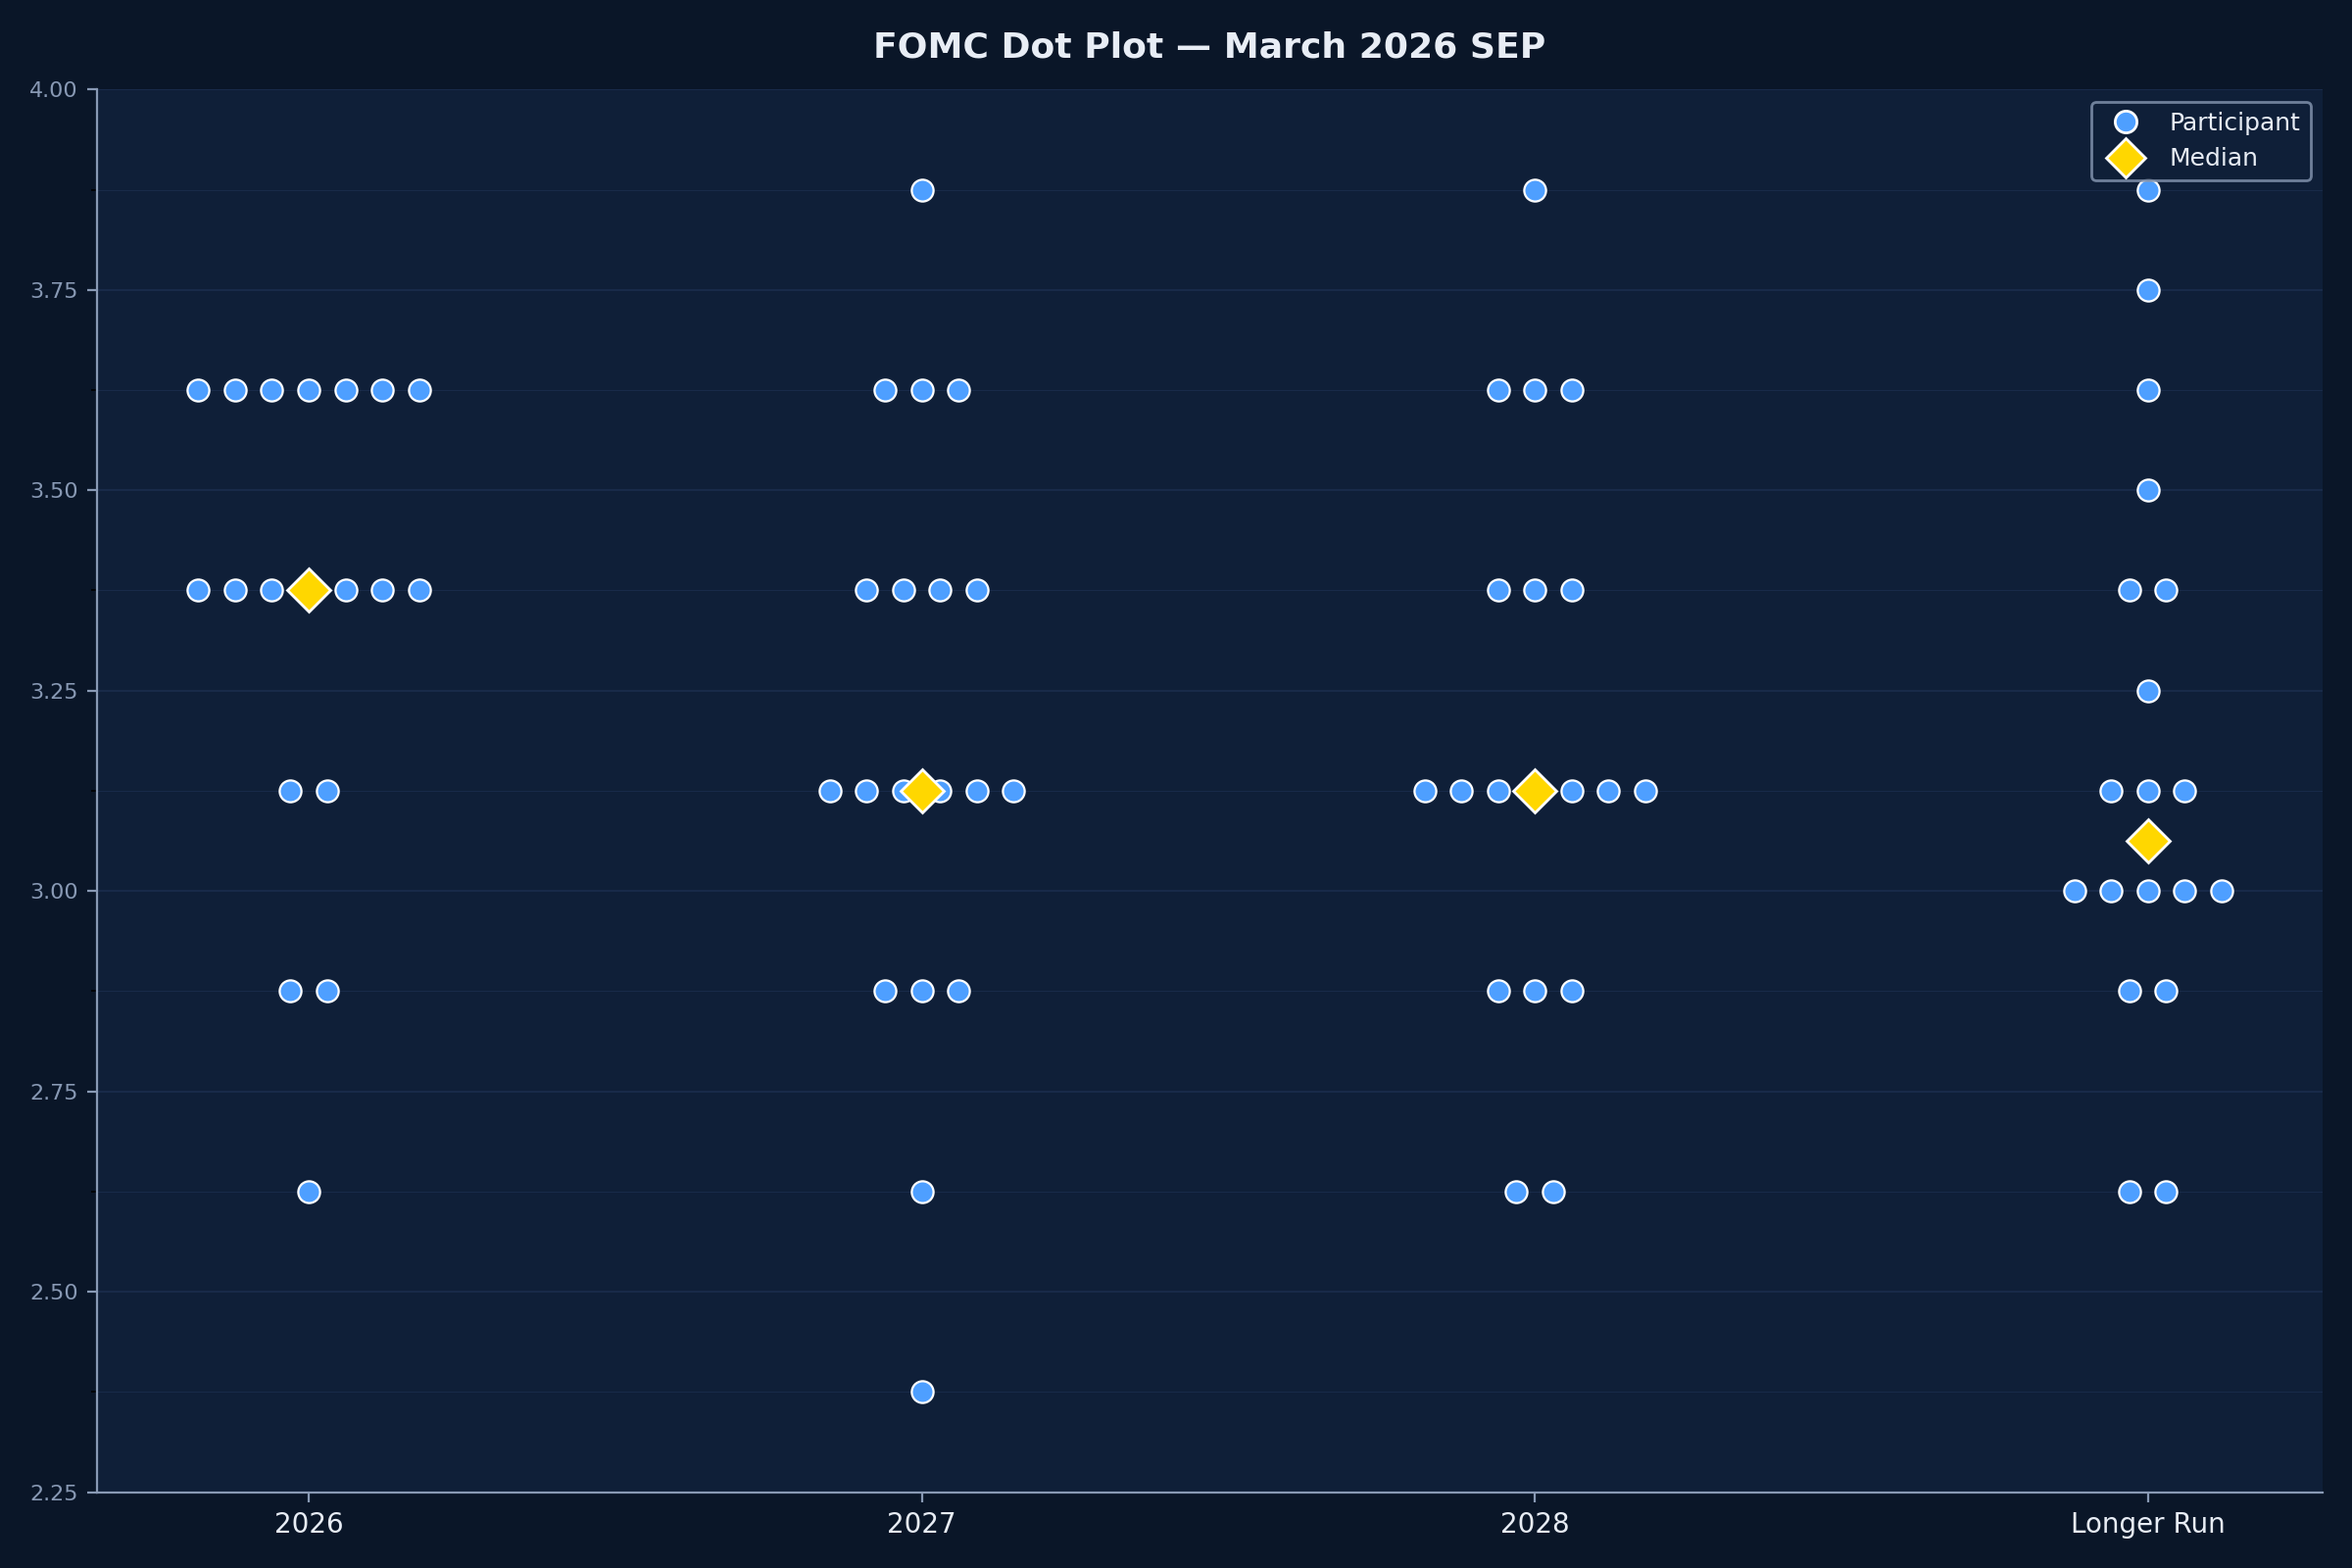
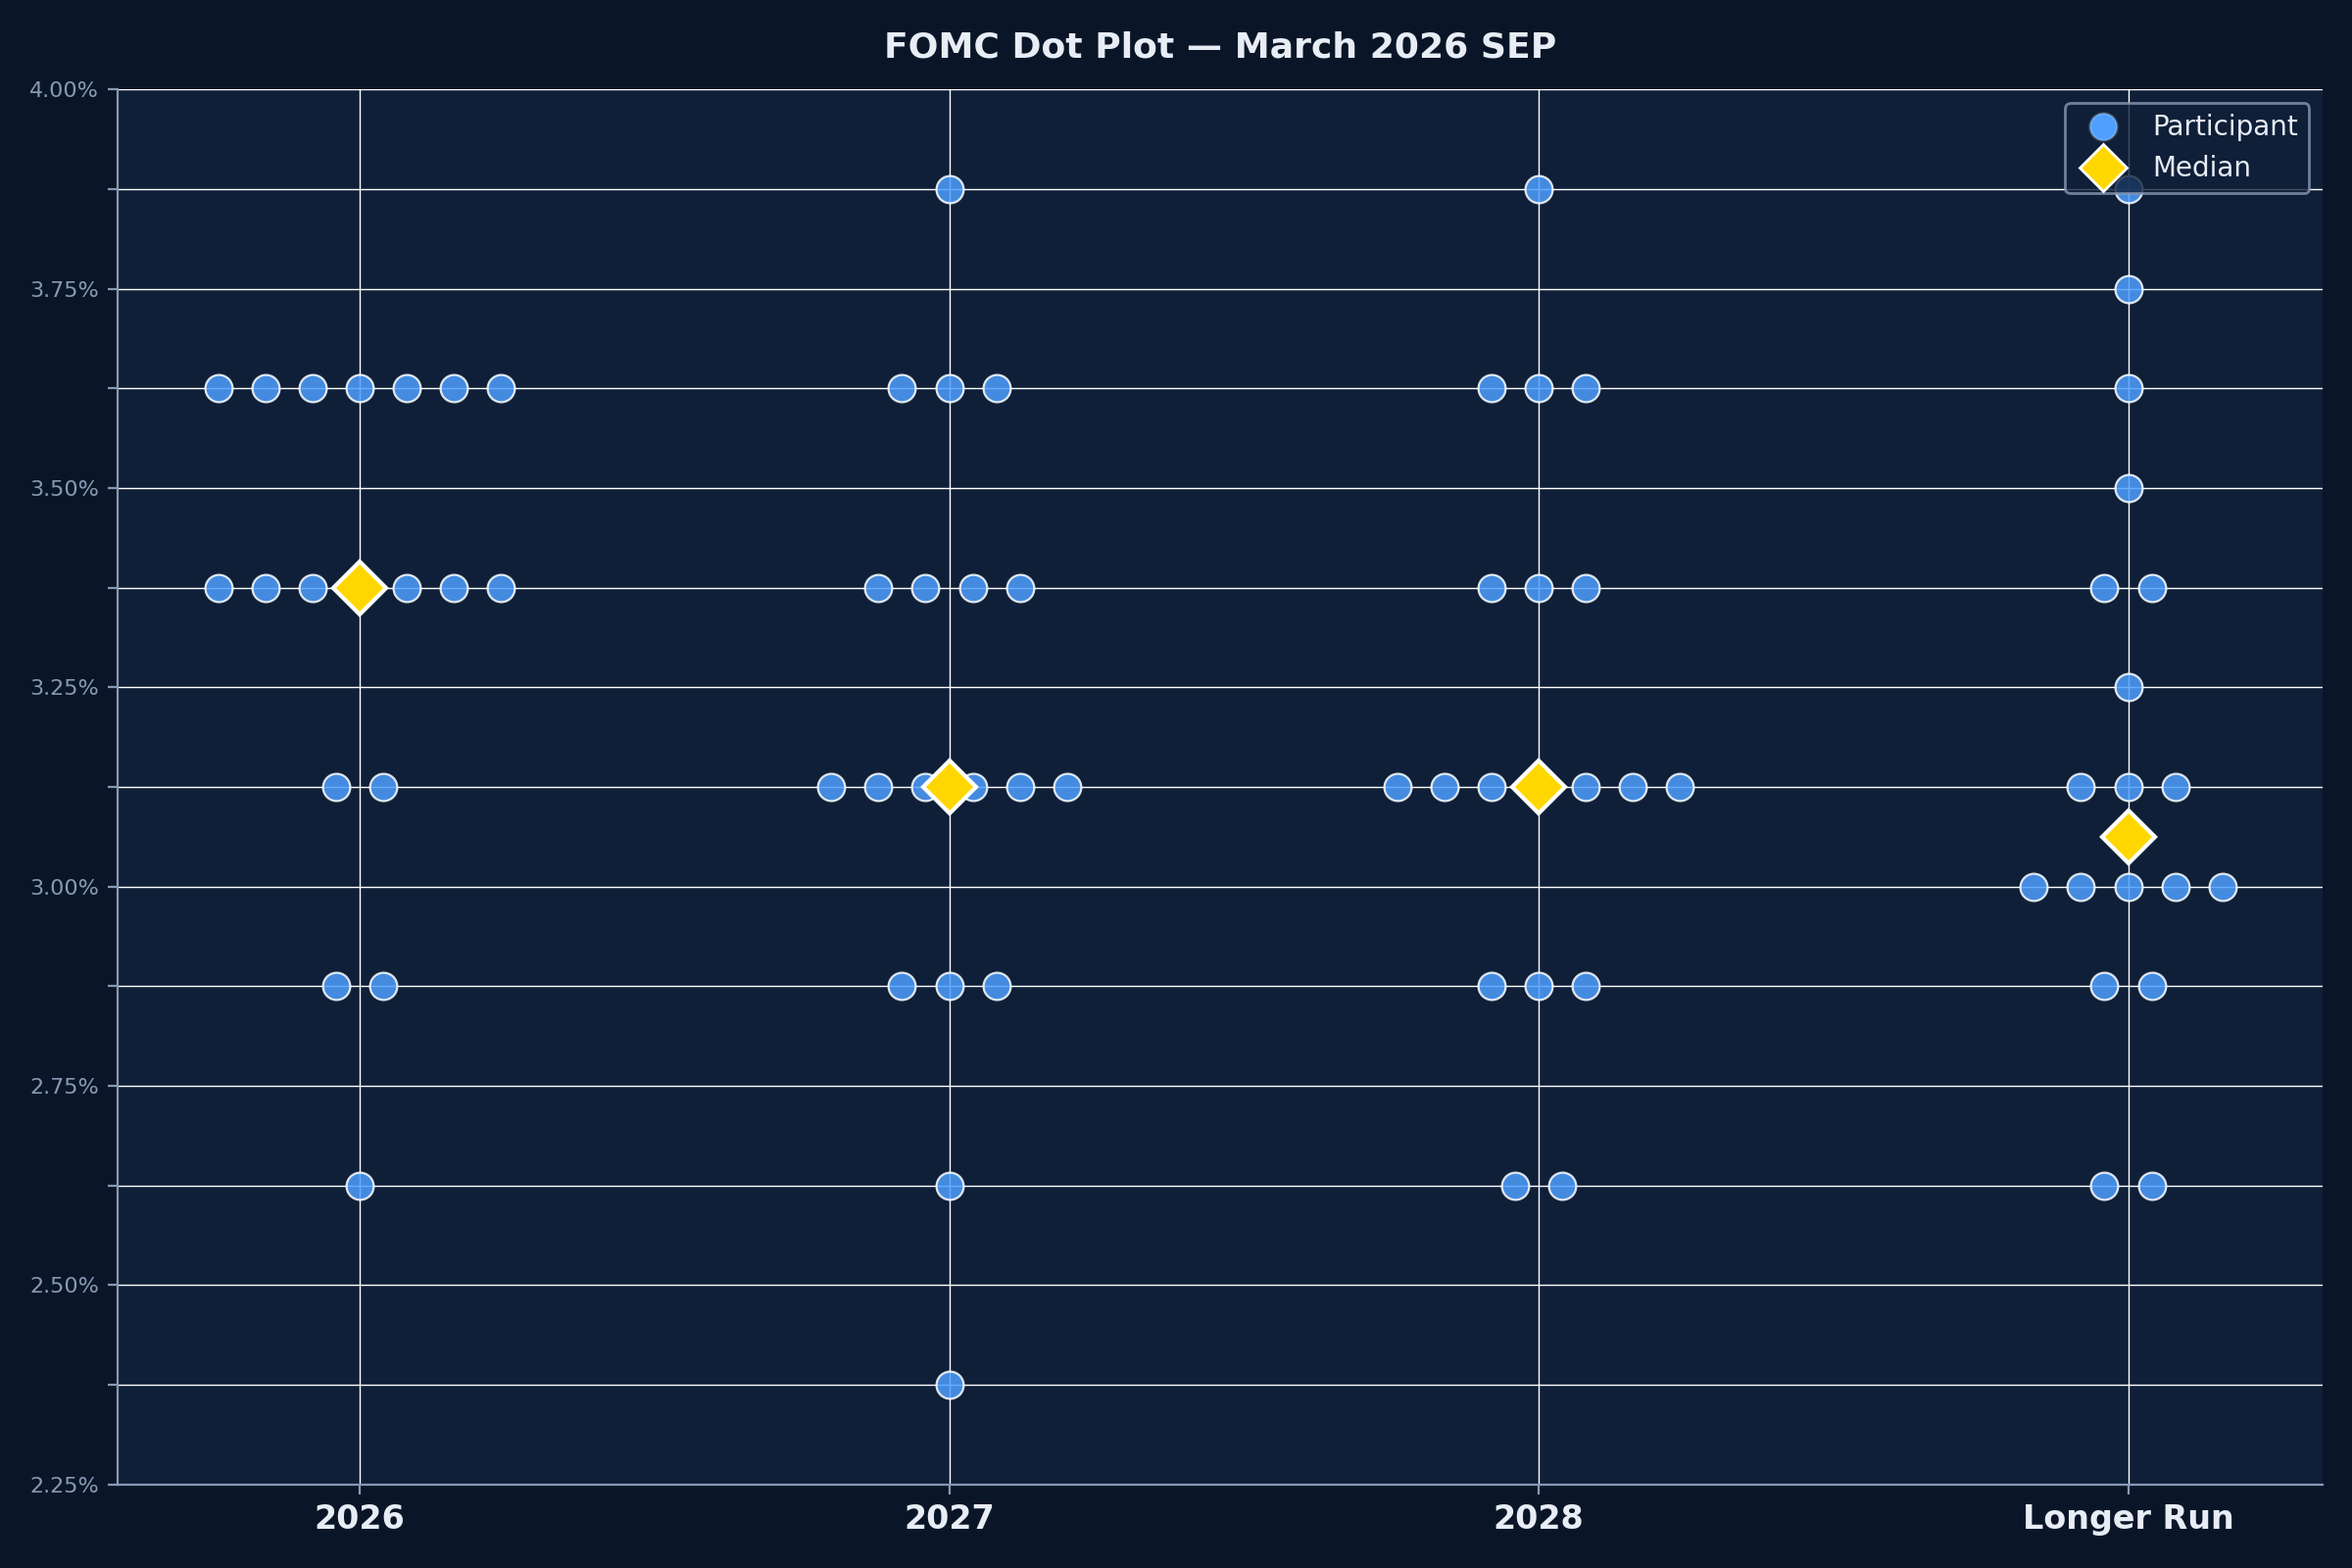
Align dot plot PNG styling with ECharts website version
Match dot spread (0.08), marker sizes, grid intervals (0.125%),
and percentage label formatting to the interactive report.

diff --git a/src/generate_charts.py b/src/generate_charts.py
@@ -207,37 +207,43 @@ def chart_dotplot():
     style_ax(ax, fig, "FOMC Dot Plot — March 2026 SEP")
 
     x_positions = {y: i for i, y in enumerate(years)}
-    dot_spread = 0.06  # horizontal spread per dot
+    dot_spread = 0.08  # horizontal spread per dot (matches ECharts 0.08 offset)
 
     for year, rates in dot_data.items():
         xc = x_positions[year]
         for rate, count in rates.items():
             offsets = np.linspace(-(count-1)*dot_spread/2, (count-1)*dot_spread/2, count)
             for off in offsets:
-                ax.plot(xc + off, rate, 'o', color=BLUE, markersize=8, markeredgecolor='white',
-                        markeredgewidth=0.8, zorder=3)
+                ax.plot(xc + off, rate, 'o', color=BLUE, markersize=10,
+                        markeredgecolor=(1, 1, 1, 0.2), markeredgewidth=0.8,
+                        alpha=0.85, zorder=3)
 
     # Medians
     for year, med in medians.items():
         xc = x_positions[year]
-        ax.plot(xc, med, 'D', color=GOLD, markersize=11, markeredgecolor='white', markeredgewidth=1, zorder=4)
+        ax.plot(xc, med, 'D', color=GOLD, markersize=14, markeredgecolor='white',
+                markeredgewidth=1.5, zorder=4)
 
     ax.set_ylim(2.25, 4.0)
-    ax.yaxis.set_major_locator(mticker.MultipleLocator(0.25))
-    ax.yaxis.set_minor_locator(mticker.MultipleLocator(0.125))
-    ax.yaxis.grid(True, which='minor', color='#1a2d4d', linewidth=0.3)
-    ax.yaxis.grid(True, which='major', color='#1a2d4d', linewidth=0.6)
+    ax.yaxis.set_major_locator(mticker.MultipleLocator(0.125))
+    ax.yaxis.grid(True, which='major', color=(1, 1, 1, 0.04), linewidth=0.5)
+    ax.yaxis.set_major_formatter(mticker.FuncFormatter(
+        lambda v, _: f'{v:.2f}%' if v % 0.25 == 0 else ''))
+    ax.xaxis.grid(True, color=(1, 1, 1, 0.04), linewidth=0.5)
 
     ax.set_xticks(range(len(years)))
-    ax.set_xticklabels(years, fontsize=10, color=TEXT)
+    ax.set_xticklabels(years, fontsize=12, fontweight='bold', color=TEXT)
 
     # Legend
     from matplotlib.lines import Line2D
     legend_elements = [
-        Line2D([0],[0], marker='o', color='w', markerfacecolor=BLUE, markersize=8, markeredgecolor='white', label='Participant', linestyle='None'),
-        Line2D([0],[0], marker='D', color='w', markerfacecolor=GOLD, markersize=10, markeredgecolor='white', label='Median', linestyle='None'),
+        Line2D([0],[0], marker='o', color='w', markerfacecolor=BLUE, markersize=10,
+               markeredgecolor=(1, 1, 1, 0.2), label='Participant', linestyle='None'),
+        Line2D([0],[0], marker='D', color='w', markerfacecolor=GOLD, markersize=12,
+               markeredgecolor='white', label='Median', linestyle='None'),
     ]
-    ax.legend(handles=legend_elements, facecolor=CARD, edgecolor=MUTED, labelcolor=TEXT, fontsize=9, loc='upper right')
+    ax.legend(handles=legend_elements, facecolor=CARD, edgecolor=MUTED, labelcolor=TEXT,
+              fontsize=10, loc='upper right')
 
     fig.tight_layout()
     fig.savefig(f'{OUTPUT}/chart_dotplot.png', dpi=DPI, facecolor=BG)
